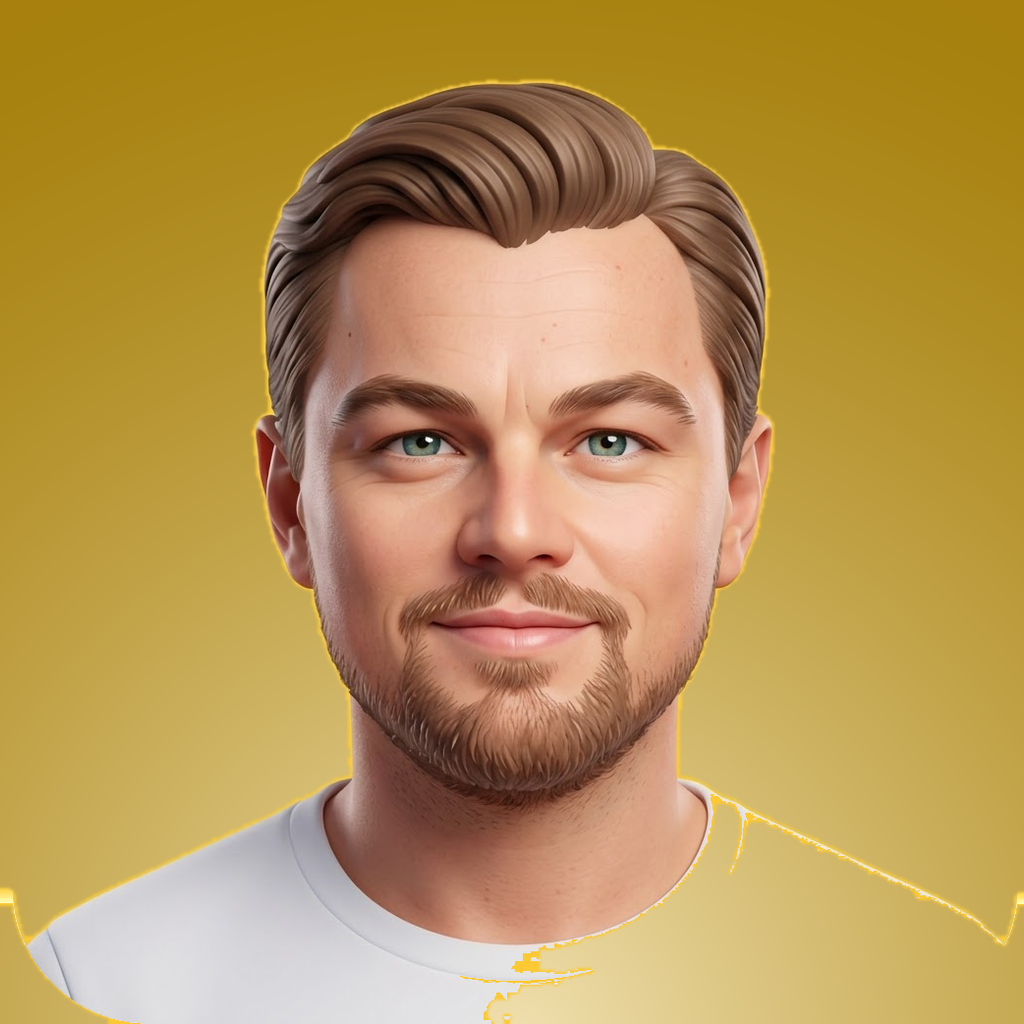
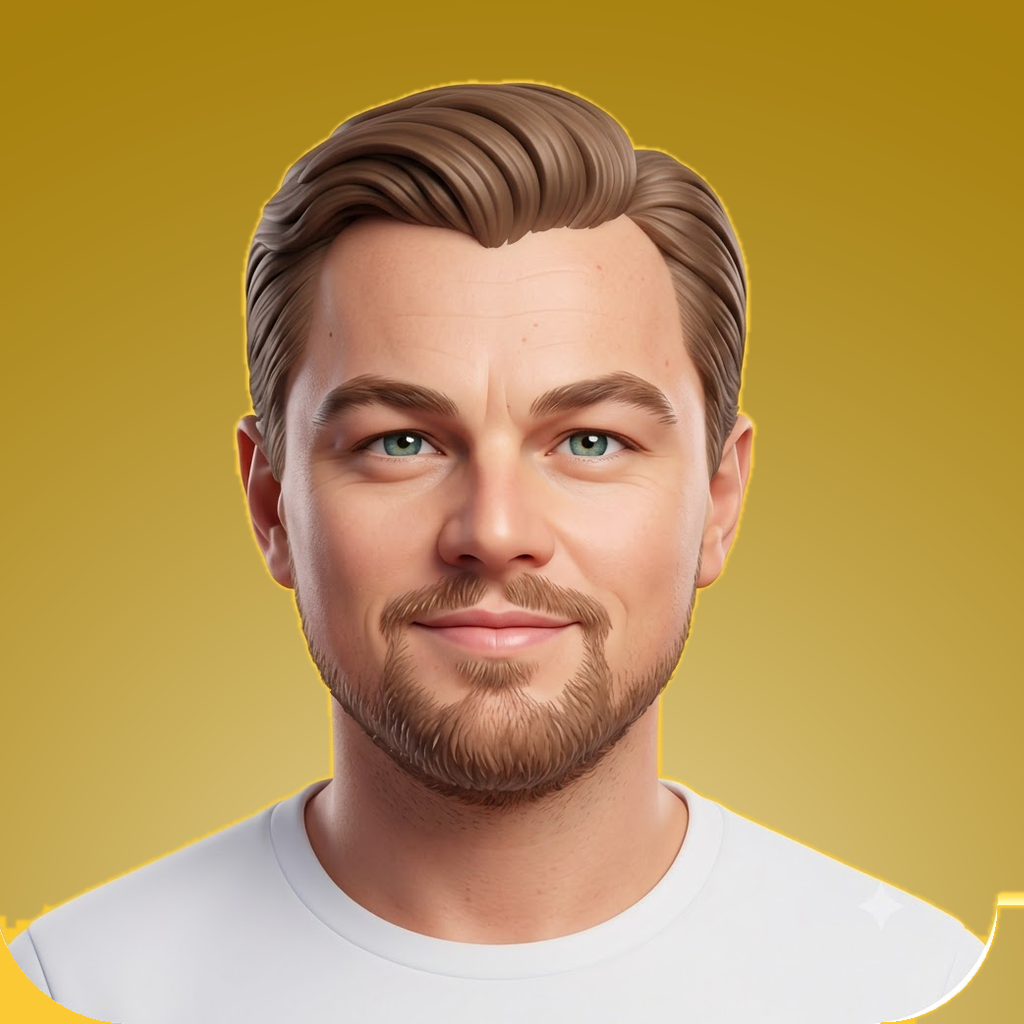
Fix rounded-corner fill eating Leonardo's shirt

diff --git a/Funny Face/script/check-round-corners.py b/Funny Face/script/check-round-corners.py
@@ -1,0 +1,147 @@
+#!/usr/bin/env python3
+"""check-round-corners.py — canh cho fill_round_corners() khong an vao nhan vat.
+
+Chay: python "Funny Face/script/check-round-corners.py"
+
+Vi sao co file nay. fill_round_corners() to loang tu 4 goc anh de xoa tam giac trang
+con lai sau khi cat the bo goc. Nguong 75 la co y — de 45 thi con sot mot net vien
+manh (ca Trump). Nhung nguong rong do da hai lan tran ra ngoai goc:
+
+  - Haaland mat nua mat: goc toi cung thoa "khac mau nen" -> da vá bang cach chi xu ly
+    goc THAT SU trang.
+  - Leonardo mat mot ben ao (2026-09-22): ao phong TRANG chay xuong sat canh duoi, cham
+    vao goc trang cua trang giay. Ben phai duoc chieu sang do trang cach trang 64 —
+    lot vao nguong 75 — nen mach loang di tu goc thang vao ao va to no thanh mau the.
+    Ben trai nam trong bong, cach trang 158, nen thoat. Do la ly do chi mat MOT ben.
+
+Hai phep do, chay tren chinh bo anh nguon:
+
+  1. Khong anh nao bi to loang qua rong. Tam giac goc that chiem 0.26%-0.42% anh.
+     Trump la ngoai le co that: the cua anh nay co net vien ve san, vung trang ngoai
+     vien chiem ~5.2% o ca bon goc — va con so do gan nhu khong doi khi siet nguong,
+     dung dau hieu cua mot vung that chu khong phai mach ro ri.
+  2. Ao cua Leonardo phai con nguyen sau khi chay.
+"""
+
+import importlib.util
+import os
+import sys
+
+import numpy as np
+from PIL import Image
+
+HERE = os.path.dirname(os.path.abspath(__file__))
+ROOT = os.path.dirname(HERE)
+SOURCES = os.path.join(os.path.dirname(ROOT), 'sources')
+
+
+def _load_maker():
+    spec = importlib.util.spec_from_file_location(
+        'make_characters', os.path.join(HERE, 'make-characters.py'))
+    mod = importlib.util.module_from_spec(spec)
+    spec.loader.exec_module(mod)
+    return mod
+
+
+mc = _load_maker()
+
+# Bo anh nguon 2D. Bo images_3D khong co goc trang nen fill_round_corners khong dong
+# vao chung — kiem tra van quet qua cho chac.
+SRC_DIRS = [os.path.join(SOURCES, 'images', 'images'),
+            os.path.join(SOURCES, 'images_3D', 'images_3D')]
+
+# Tran lon nhat cho mot goc. Tam giac goc that do duoc 0.26%-0.42%; 1% da rat rong rai.
+MAX_CORNER = 0.01
+# Trump: the TRANG co net vien ve san — ca bon canh deu trang, khong phai goc bo, nen
+# _fill_corner roi ve duong lui to loang va phu ~5.2% moi goc. Co that, khong phai ro ri;
+# mien ca hai phep do cho anh nay.
+KNOWN_WIDE = {'donal_trump (1).jpeg': 0.06}
+
+DIRS = {'TL': (1, 1), 'TR': (-1, 1), 'BL': (1, -1), 'BR': (-1, -1)}
+# Vet to xa nhat cho phep, theo canh trung binh. Goc bo do duoc r=100-147 tren anh
+# 1024 (~14%); 0.6 la rat rong rai va van bat duoc mot mach chay doc canh.
+MAX_REACH = 0.6
+
+# Diem tren ao Leonardo, o ben BI MAT truoc khi sua. Phai con la vai trang.
+LEO = 'leonardo.jpeg'
+LEO_SHIRT = [(800, 900), (860, 960), (760, 860)]
+
+
+def corner_fill(im, corner, d, bgc):
+    """Vung bi to khi to tu `corner`: (ti le anh, khoang cach xa nhat tinh tu goc).
+
+    Goi dung _fill_corner() — tuc la ca phan do hinh hoc — chu khong goi floodfill
+    tho, vi floodfill tho chinh la thu dang duoc canh.
+    """
+    after = im.copy()
+    mc._fill_corner(after, corner, d, bgc)
+    a, b = np.asarray(im, dtype=np.int16), np.asarray(after, dtype=np.int16)
+    changed = np.abs(a - b).sum(axis=2) > 0
+    if not changed.any():
+        return 0.0, 0
+    ys, xs = np.nonzero(changed)
+    reach = int(np.max(np.abs(xs - corner[0]) + np.abs(ys - corner[1])))
+    return float(changed.mean()), reach
+
+
+def sources():
+    for d in SRC_DIRS:
+        if not os.path.isdir(d):
+            continue
+        for f in sorted(os.listdir(d)):
+            if f.lower().endswith(('.png', '.jpg', '.jpeg', '.webp')):
+                yield f, os.path.join(d, f)
+
+
+def check_no_corner_runs_away():
+    """Khong goc nao bi to qua MAX_CORNER, tru cac ca da biet."""
+    bad = []
+    for name, path in sources():
+        im = Image.open(path).convert('RGB')
+        w, h = im.size
+        bgc = mc.border_color(im)
+        px = im.load()
+        cap = KNOWN_WIDE.get(name, MAX_CORNER)
+        for label, c in (('TL', (0, 0)), ('TR', (w - 1, 0)),
+                         ('BL', (0, h - 1)), ('BR', (w - 1, h - 1))):
+            cc = px[c]
+            if not (mc.dist(cc, (255, 255, 255)) < 70 and mc.dist(cc, bgc) > 60):
+                continue
+            frac, reach = corner_fill(im, c, DIRS[label], bgc)
+            if frac > cap:
+                bad.append('%s goc %s: to loang %.2f%% anh (tran cho phep %.2f%%)'
+                           % (name, label, frac * 100, cap * 100))
+            elif name not in KNOWN_WIDE and reach > MAX_REACH * (w + h) / 2:
+                bad.append('%s goc %s: vet to voi toi %d px tinh tu goc — da ra khoi goc'
+                           % (name, label, reach))
+    return bad
+
+
+def check_leonardo_keeps_his_shirt():
+    """Chay that fill_round_corners roi soi lai may diem tren ao."""
+    path = next((p for n, p in sources() if n == LEO), None)
+    if path is None:
+        return ['khong tim thay %s trong sources/' % LEO]
+    im = Image.open(path).convert('RGB')
+    out = mc.fill_round_corners(im.copy()).load()
+    bad = []
+    for p in LEO_SHIRT:
+        c = out[p]
+        if mc.dist(c, (255, 255, 255)) > 120:
+            bad.append('Leonardo: diem ao %s thanh %s — ao bi to mat mot ben' % (p, c))
+    return bad
+
+
+def main():
+    fails = check_no_corner_runs_away() + check_leonardo_keeps_his_shirt()
+    for f in fails:
+        print('  FAIL  ' + f)
+    if fails:
+        print('\n%d loi.' % len(fails))
+        return 1
+    print('OK — khong goc nao tran ra ngoai, ao Leonardo con nguyen.')
+    return 0
+
+
+if __name__ == '__main__':
+    sys.exit(main())

diff --git a/Funny Face/script/make-characters.py b/Funny Face/script/make-characters.py
@@ -175,6 +175,68 @@ def border_color(im):
     return max(cnt, key=cnt.get) if cnt else px[w // 2, 2]
 
 
+# To goc bo: hinh hoc la chinh, to loang chi la duong lui.
+CORNER_THRESH = 75          # nguong to loang cho duong lui
+CORNER_MAX_R = 0.25         # ban kinh bo toi da, theo canh ngan
+CORNER_SKEW = 1.35          # rx/ry lech qua muc nay = mot phia da chay vao nhan vat
+CORNER_BITE = 2             # an them vao trong cung mot chut de nuot dai chuyen tiep mem
+
+
+def _corner_radius(im, c, d):
+    """Do ban kinh bo tai mot goc: di doc HAI canh cho den khi het trang."""
+    w, h = im.size
+    px = im.load()
+    (cx, cy), (dx, dy) = c, d
+    lim = min(w, h) // 2
+    rx = ry = 0
+    while rx < lim and dist(px[cx + dx * rx, cy], (255, 255, 255)) < 70:
+        rx += 1
+    while ry < lim and dist(px[cx, cy + dy * ry], (255, 255, 255)) < 70:
+        ry += 1
+    return rx, ry
+
+
+def _fill_corner(im, c, d, bgc):
+    """To tam giac trang o mot goc bo, KHONG dung mau lam duong di.
+
+    Ban cu to loang tu goc voi nguong rong. Cach do coi mau la duong di, nen khi nhan
+    vat mac do CUNG MAU voi trang giay ma the dan len thi mach loang chui thang vao
+    quan ao: ao phong TRANG cua Leonardo chay xuong sat canh duoi, cham vao goc trang,
+    va ca ben vai bi to thanh mau the. Siet nguong chi thu hep thiet hai thanh mot net
+    vien manh chay doc mep sang nhat cua ao — van la loi.
+
+    Goc bo la chuyen HINH HOC, nen do bang hinh hoc: di doc hai canh tu goc cho den khi
+    het trang. Voi goc bo that, hai so do bang nhau (do duoc 100-147 px, lech duoi 10%
+    tren ca bo anh nguon). Khi mot phia chay vao nhan vat no dai vot len — Leonardo BR
+    do 387 ngang so voi 121 doc — nen lay so NHO khi hai so lech qua CORNER_SKEW.
+
+    Ca the trang co net vien ve san (anh Trump) thi ca hai canh deu trang het nua anh;
+    do khong phai goc bo, va van can to loang nhu cu.
+    """
+    w, h = im.size
+    rx, ry = _corner_radius(im, c, d)
+    lim = int(min(w, h) * CORNER_MAX_R)
+    # Ca hai canh deu trang het nua anh -> khong phai goc bo ma la the TRANG co net
+    # vien ve san (anh Trump). To loang van dung cho ca do.
+    both_wide = rx >= lim and ry >= lim
+    if both_wide or max(rx, ry) <= min(rx, ry) * CORNER_SKEW:
+        ImageDraw.floodfill(im, c, bgc, thresh=CORNER_THRESH)
+        return
+    # Hai so do lech nhau -> phia dai hon da chay ra khoi goc. Lay phia ngan.
+    r = min(rx, ry)
+    if r <= 0:
+        return
+    (cx, cy), (dx, dy) = c, d
+    x0, y0 = min(cx, cx + dx * (r - 1)), min(cy, cy + dy * (r - 1))
+    box = (x0, y0, x0 + r, y0 + r)
+    ox, oy = cx + dx * (r - 1) - x0, cy + dy * (r - 1) - y0      # tam cung, trong box
+    yy, xx = np.ogrid[:r, :r]
+    outside = ((xx - ox) ** 2 + (yy - oy) ** 2) > (r - CORNER_BITE) ** 2
+    tile = np.asarray(im.crop(box)).copy()
+    tile[outside] = bgc[:tile.shape[2]]
+    im.paste(Image.fromarray(tile, im.mode), box)
+
+
 def fill_round_corners(im):
     """Thẻ BO GÓC -> sau khi cắt, 4 góc còn tam giác trắng. Tô loang bằng màu nền của thẻ."""
     w, h = im.size
@@ -185,10 +247,12 @@ def fill_round_corners(im):
     # CHỈ xử lý khi góc thật sự TRẮNG (đặc trưng của thẻ bo góc trên nền trắng). Bản
     # trước chỉ kiểm tra "góc khác màu nền" -> với ảnh nền chuyển màu, góc tối cũng thoả,
     # rồi tô loang ngưỡng 75 chui thẳng vào vùng tối trên mặt (ảnh Haaland mất nửa mặt).
+    dirs = {(0, 0): (1, 1), (w - 1, 0): (-1, 1),
+            (0, h - 1): (1, -1), (w - 1, h - 1): (-1, -1)}
     for c in ((0, 0), (w - 1, 0), (0, h - 1), (w - 1, h - 1)):
         cc = im.load()[c]
         if dist(cc, (255, 255, 255)) < 70 and dist(cc, bgc) > 60:
-            ImageDraw.floodfill(im, c, bgc, thresh=75)
+            _fill_corner(im, c, dirs[c], bgc)
     return im
 
 
